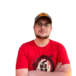
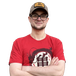
Updated profile image

diff --git a/templates/partials/head.html b/templates/partials/head.html
@@ -29,7 +29,9 @@
   <link rel="apple-touch-icon" sizes="120x120" href="/images/favico/apple-touch-icon-120x120.png">
   <link rel="apple-touch-icon" sizes="144x144" href="/images/favico/apple-touch-icon-144x144.png">
   <link rel="apple-touch-icon" sizes="152x152" href="/images/favico/apple-touch-icon-152x152.png">
+  <link rel="apple-touch-icon" sizes="167x167" href="/images/favico/apple-touch-icon-180x180.png">
   <link rel="apple-touch-icon" sizes="180x180" href="/images/favico/apple-touch-icon-180x180.png">
+  <link rel="apple-touch-icon" sizes="1024x1024" href="/images/favico/apple-touch-icon-180x180.png">
   <link rel="icon" type="image/png" sizes="32x32" href="/images/favico/favicon-32x32.png">
   <link rel="icon" type="image/png" sizes="16x16" href="/images/favico/favicon-16x16.png">
   <link rel="mask-icon" href="/images/favico/safari-pinned-tab.svg" color="#ffffff">

diff --git a/templates/partials/header.html b/templates/partials/header.html
@@ -1,6 +1,6 @@
 <header>
   <a href="/" class="site-logo" style="padding-left: 0">
-    <img src="https://marcusnoble.co.uk/images/favico/favicon-96.png" style="height: 96px" class="glitch-image" />
+    <img src="/images/marcus-transparent.png" style="height: 96px" class="glitch-image" />
     <h1 style="margin-bottom: 0;" class="glitch">{{site.title}}</h1>
   </a>
 

diff --git a/src/service-worker.js b/src/service-worker.js
@@ -1,4 +1,4 @@
-var CACHE = 'v3';
+var CACHE = 'v4';
 
 self.addEventListener('install', function() {
   return self.skipWaiting();
